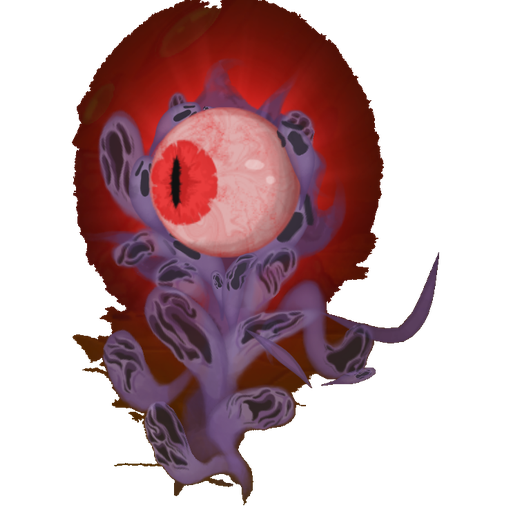
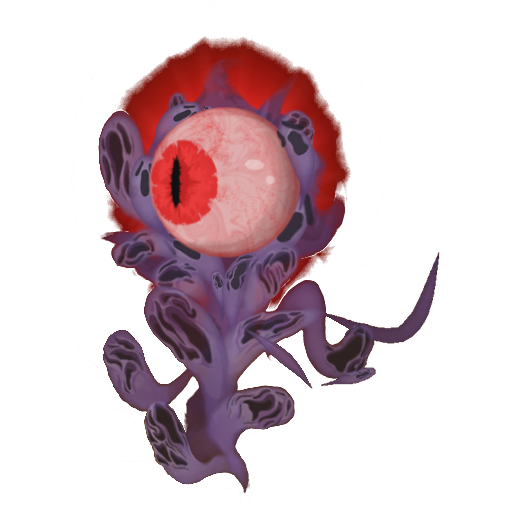
Add credits footer, feedback links, fix CSV parser for quoted combo intents
- Add credits section crediting STS2 Community Reference Sheet contributors
- Add feedback link under search bar and at bottom of enemy detail panel
- Fix CSV parser to preserve closing quotes in splitLogicalLines
- Fix Thieving Hopper intent field (quote combo intent in moves.csv)
- Add Door enemy sprite, update Soul Nexus sprite

diff --git a/index.html b/index.html
@@ -479,6 +479,43 @@
     font-size: 1rem;
   }
 
+  /* ── Footer / Credits ── */
+  .site-footer {
+    text-align: center;
+    padding: 32px 16px 24px;
+    margin-top: 40px;
+    border-top: 1px solid #1a1a2a;
+    color: #555;
+    font-size: 0.75rem;
+    line-height: 1.6;
+  }
+  .site-footer a {
+    color: #8a7a4a;
+    text-decoration: none;
+  }
+  .site-footer a:hover {
+    color: #c8b06a;
+    text-decoration: underline;
+  }
+  .site-footer .credit-names {
+    color: #777;
+  }
+
+  /* ── Feedback link ── */
+  .feedback-link {
+    text-align: center;
+    margin-top: 6px;
+  }
+  .feedback-link a {
+    color: #666;
+    font-size: 0.72rem;
+    text-decoration: none;
+    transition: color 0.2s;
+  }
+  .feedback-link a:hover {
+    color: #c8b06a;
+  }
+
   @media (max-width: 600px) {
     .act-card img { width: 150px; }
     .enemy-grid { grid-template-columns: repeat(auto-fill, minmax(120px, 1fr)); gap: 10px; padding: 16px; }
@@ -494,6 +531,9 @@
   <div class="search-bar">
     <input type="text" id="search-input" placeholder="Search enemies or encounters..." oninput="onSearch(this.value)" />
     <button class="search-clear" id="search-clear" onclick="clearSearch()">&times;</button>
+  </div>
+  <div class="feedback-link">
+    See an issue with the data or have a suggestion? <a href="https://github.com/jparro00/sts2-enemy-guide/issues/new?title=Feedback&body=Type%20your%20feedback%20here" target="_blank">Submit feedback here</a>
   </div>
 </header>
 
@@ -552,13 +592,12 @@ function parseCSV(text) {
     for (let i = 0; i < text.length; i++) {
       const ch = text[i];
       if (inQuotes) {
+        current += ch;
         if (ch === '"' && text[i + 1] === '"') {
-          current += '"';
+          current += text[i + 1];
           i++;
         } else if (ch === '"') {
           inQuotes = false;
-        } else {
-          current += ch;
         }
       } else {
         if (ch === '"') {
@@ -687,6 +726,8 @@ async function loadData() {
 
 // Cache-busting version for images
 const imgV = Date.now();
+
+const panelFeedbackLink = `<div class="feedback-link" style="margin-top: 20px; padding-top: 16px; border-top: 1px solid #2a2a3a;"><a href="https://github.com/jparro00/sts2-enemy-guide/issues/new?title=Feedback&body=Type%20your%20feedback%20here" target="_blank">Submit feedback or report an issue</a></div>`;
 
 // Encounters where the image should align to top instead of center
 const topAlignEncounters = new Set(['Kaiser Crab']);
@@ -895,9 +936,9 @@ function openEncounter(encounterName, act, cat) {
       .filter((name, idx, arr) => arr.indexOf(name) === idx)
       .map(name => renderEnemySection(name))
       .join('');
-    document.getElementById('detail-body').innerHTML = sections;
+    document.getElementById('detail-body').innerHTML = sections + panelFeedbackLink;
   } else {
-    document.getElementById('detail-body').innerHTML = renderEnemySection(encounterName);
+    document.getElementById('detail-body').innerHTML = renderEnemySection(encounterName) + panelFeedbackLink;
   }
 
   panel.classList.add('open');
@@ -1009,5 +1050,12 @@ function onSearch(query) {
 // ── Load and go ──
 loadData();
 </script>
+
+<footer class="site-footer">
+  The data on this site was sourced from the <a href="https://docs.google.com/spreadsheets/d/1wlhrYjH8JwfPrPd0VaekzJrdKuOXCT23UwxHcQBayVc/" target="_blank">STS2 Community Reference Sheet</a>,
+  maintained by <span class="credit-names">dr0gulus, Aplet123, and Redbeardy_Mcgee</span> who continue to keep it updated &mdash; huge thanks for their work making this possible.<br>
+  Slay the Spire 2 is currently in early access, so enemy stats, moves, and patterns are subject to change with each patch. Data last updated for v0.98.3.
+</footer>
+
 </body>
 </html>
